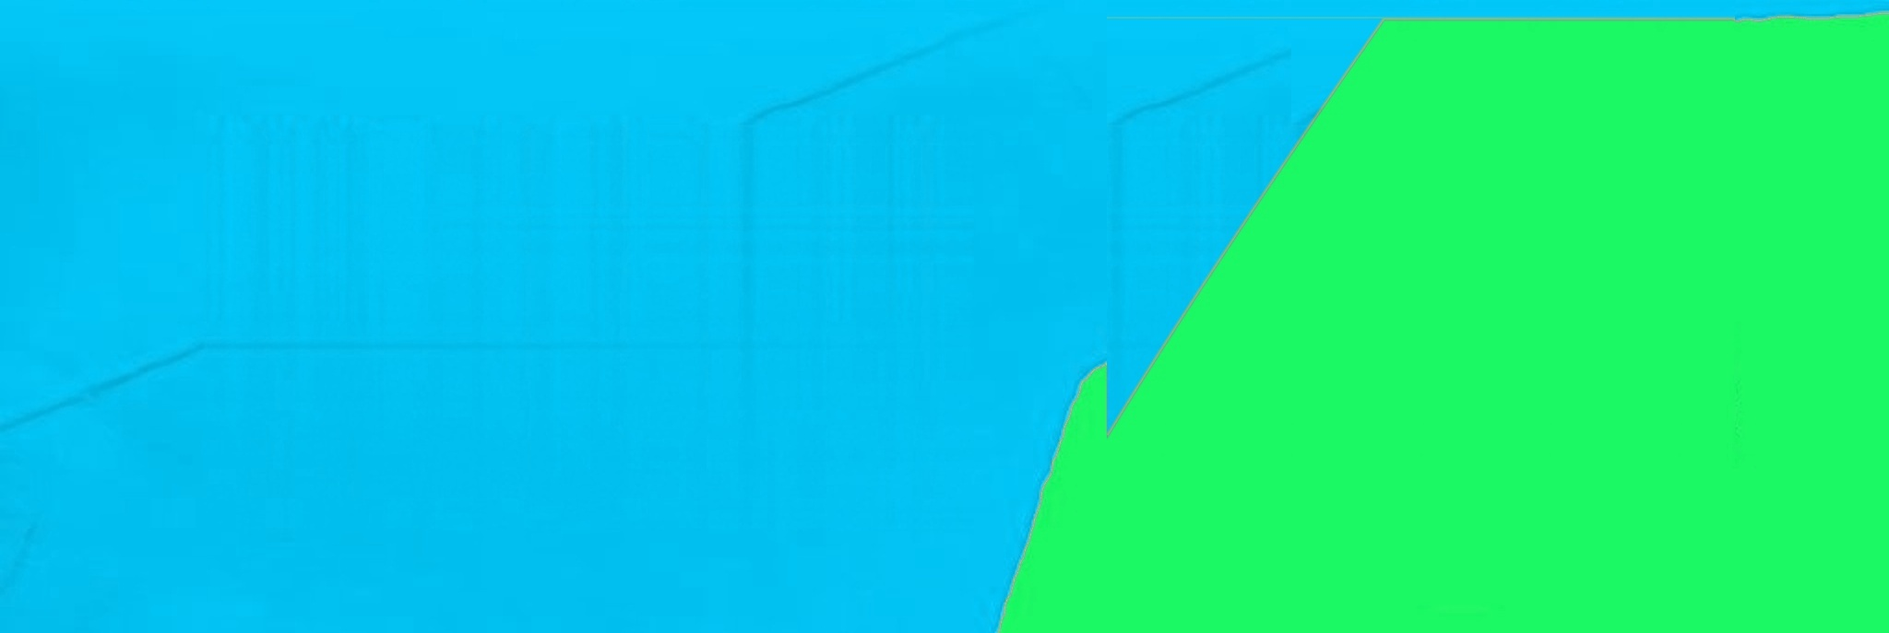
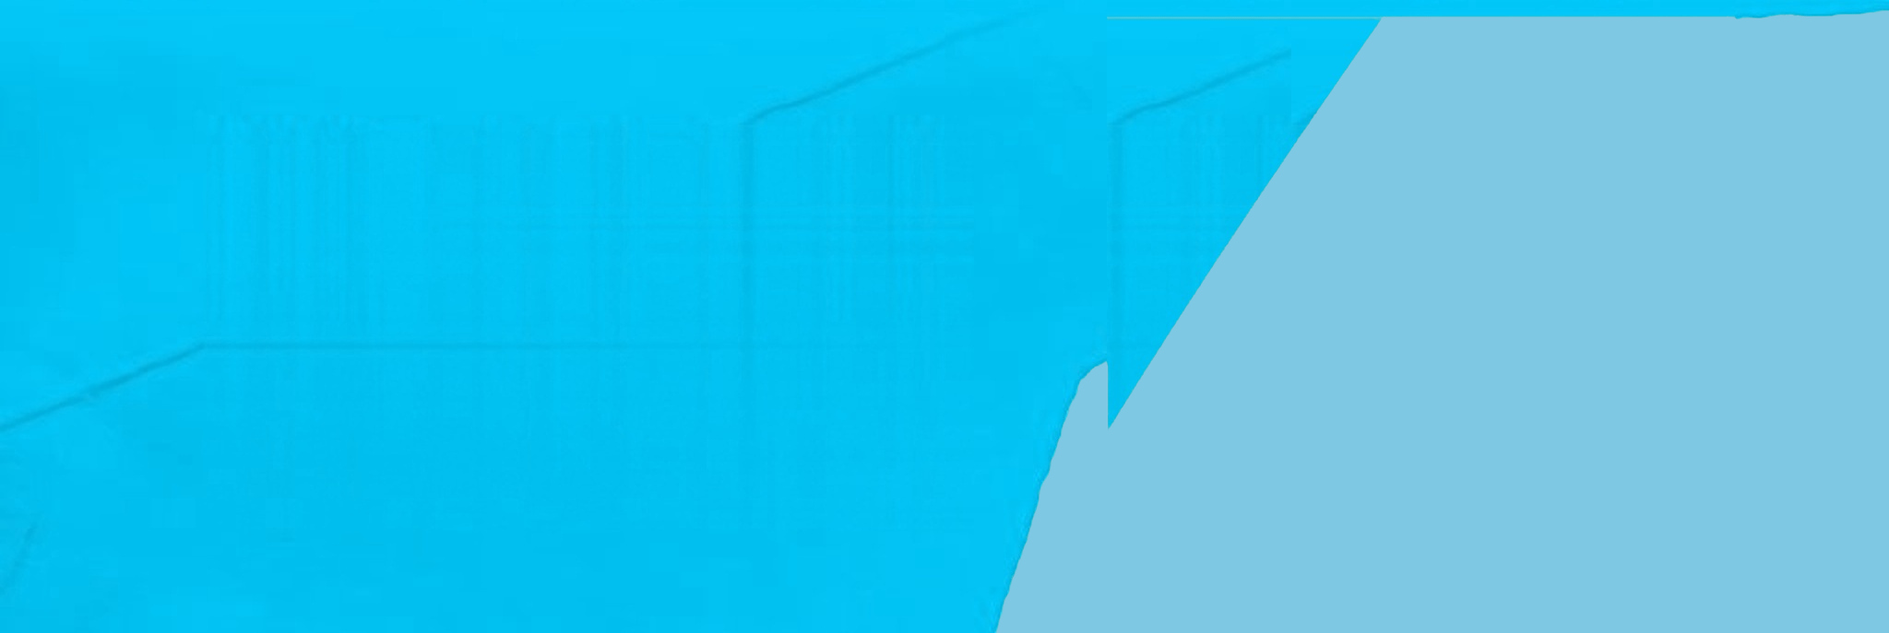
first commit

diff --git a/src/components/TornPaperCard.tsx b/src/components/TornPaperCard.tsx
@@ -1,0 +1,78 @@
+"use client";
+
+import React, { useId } from "react";
+
+interface TornPaperCardProps {
+  children: React.ReactNode;
+  className?: string;
+  borderPadding?: string;
+  variant?: 1 | 2 | 3 | 4;
+}
+
+// 4 distinct organic hand-torn paper perimeters (0..1 coordinates)
+const TORN_VARIANTS = [
+  {
+    "outer": "M 0.016,0.0228 L 0.0362,0.0215 L 0.0563,0.0196 L 0.0765,0.0192 L 0.0967,0.0192 L 0.1168,0.0208 L 0.137,0.0179 L 0.1572,0.0162 L 0.1773,0.0163 L 0.1975,0.0151 L 0.2177,0.0181 L 0.2378,0.017 L 0.258,0.0153 L 0.2782,0.0148 L 0.2983,0.0123 L 0.3185,0.0141 L 0.3387,0.0121 L 0.3588,0.0096 L 0.379,0.0095 L 0.3992,0.0116 L 0.4193,0.0153 L 0.4395,0.0189 L 0.4597,0.0178 L 0.4798,0.0196 L 0.5,0.0185 L 0.5202,0.0194 L 0.5403,0.0207 L 0.5605,0.0177 L 0.5807,0.017 L 0.6008,0.0159 L 0.621,0.0174 L 0.6412,0.0206 L 0.6613,0.0188 L 0.6815,0.0173 L 0.7017,0.0178 L 0.7218,0.0161 L 0.742,0.0165 L 0.7622,0.0138 L 0.7823,0.0113 L 0.8025,0.0105 L 0.8227,0.0092 L 0.8428,0.0121 L 0.863,0.0133 L 0.8832,0.0136 L 0.9033,0.0162 L 0.9235,0.0163 L 0.9437,0.0192 L 0.9638,0.0203 L 0.984,0.017 L 0.9838,0.0362 L 0.9823,0.0563 L 0.984,0.0765 L 0.9869,0.0967 L 0.9888,0.1168 L 0.9909,0.137 L 0.9882,0.1572 L 0.9888,0.1773 L 0.9887,0.1975 L 0.9871,0.2177 L 0.9863,0.2378 L 0.9826,0.258 L 0.9803,0.2782 L 0.9826,0.2983 L 0.983,0.3185 L 0.9841,0.3387 L 0.9832,0.3588 L 0.9804,0.379 L 0.983,0.3992 L 0.9808,0.4193 L 0.9823,0.4395 L 0.981,0.4597 L 0.9786,0.4798 L 0.9806,0.5 L 0.9833,0.5202 L 0.9858,0.5403 L 0.9883,0.5605 L 0.9873,0.5807 L 0.9889,0.6008 L 0.989,0.621 L 0.9899,0.6412 L 0.9895,0.6613 L 0.9848,0.6815 L 0.9832,0.7017 L 0.9831,0.7218 L 0.9833,0.742 L 0.9867,0.7622 L 0.9847,0.7823 L 0.9832,0.8025 L 0.9842,0.8227 L 0.9825,0.8428 L 0.983,0.863 L 0.9798,0.8832 L 0.9772,0.9033 L 0.9791,0.9235 L 0.9793,0.9437 L 0.9827,0.9638 L 0.9842,0.984 L 0.9638,0.9895 L 0.9437,0.9882 L 0.9235,0.9879 L 0.9033,0.9866 L 0.8832,0.9886 L 0.863,0.9872 L 0.8428,0.9847 L 0.8227,0.985 L 0.8025,0.9825 L 0.7823,0.9847 L 0.7622,0.9867 L 0.742,0.985 L 0.7218,0.9844 L 0.7017,0.9815 L 0.6815,0.9803 L 0.6613,0.9823 L 0.6412,0.9783 L 0.621,0.9773 L 0.6008,0.9782 L 0.5807,0.9789 L 0.5605,0.9838 L 0.5403,0.9847 L 0.5202,0.9851 L 0.5,0.9868 L 0.4798,0.9867 L 0.4597,0.9888 L 0.4395,0.9882 L 0.4193,0.986 L 0.3992,0.9853 L 0.379,0.9845 L 0.3588,0.9867 L 0.3387,0.988 L 0.3185,0.9855 L 0.2983,0.9868 L 0.2782,0.9853 L 0.258,0.9846 L 0.2378,0.9857 L 0.2177,0.9801 L 0.1975,0.9799 L 0.1773,0.9764 L 0.1572,0.9769 L 0.137,0.982 L 0.1168,0.9808 L 0.0967,0.982 L 0.0765,0.9837 L 0.0563,0.9847 L 0.0362,0.9879 L 0.016,0.9858 L 0.0154,0.9638 L 0.0168,0.9437 L 0.0161,0.9235 L 0.013,0.9033 L 0.0143,0.8832 L 0.0161,0.863 L 0.0158,0.8428 L 0.0159,0.8227 L 0.0117,0.8025 L 0.0114,0.7823 L 0.0112,0.7622 L 0.0109,0.742 L 0.0145,0.7218 L 0.0141,0.7017 L 0.0144,0.6815 L 0.0186,0.6613 L 0.0192,0.6412 L 0.0231,0.621 L 0.0199,0.6008 L 0.0185,0.5807 L 0.0188,0.5605 L 0.0185,0.5403 L 0.0188,0.5202 L 0.0178,0.5 L 0.0139,0.4798 L 0.0171,0.4597 L 0.0175,0.4395 L 0.0184,0.4193 L 0.017,0.3992 L 0.0141,0.379 L 0.0127,0.3588 L 0.0123,0.3387 L 0.0123,0.3185 L 0.011,0.2983 L 0.01,0.2782 L 0.0102,0.258 L 0.015,0.2378 L 0.0168,0.2177 L 0.0193,0.1975 L 0.0186,0.1773 L 0.0174,0.1572 L 0.0204,0.137 L 0.02,0.1168 L 0.0192,0.0967 L 0.0171,0.0765 L 0.0145,0.0563 L 0.018,0.0362 Z",
+    "inner": "M 0.012,0.0177 L 0.0323,0.0157 L 0.0527,0.0152 L 0.073,0.0146 L 0.0933,0.0135 L 0.1137,0.0149 L 0.134,0.012 L 0.1543,0.0112 L 0.1747,0.0115 L 0.195,0.0124 L 0.2153,0.014 L 0.2357,0.0129 L 0.256,0.0108 L 0.2763,0.0105 L 0.2967,0.0092 L 0.317,0.0099 L 0.3373,0.0083 L 0.3577,0.007 L 0.378,0.0068 L 0.3983,0.0077 L 0.4187,0.0109 L 0.439,0.0149 L 0.4593,0.0144 L 0.4797,0.0151 L 0.5,0.0152 L 0.5203,0.0148 L 0.5407,0.0155 L 0.561,0.0142 L 0.5813,0.0125 L 0.6017,0.0124 L 0.622,0.0137 L 0.6423,0.016 L 0.6627,0.0149 L 0.683,0.0141 L 0.7033,0.013 L 0.7237,0.0119 L 0.744,0.0119 L 0.7643,0.0106 L 0.7847,0.007 L 0.805,0.0069 L 0.8253,0.0062 L 0.8457,0.009 L 0.866,0.0108 L 0.8863,0.0098 L 0.9067,0.0111 L 0.927,0.0133 L 0.9473,0.0138 L 0.9677,0.0156 L 0.988,0.0135 L 0.9911,0.0323 L 0.9933,0.0527 L 0.9941,0.073 L 0.9935,0.0933 L 0.9899,0.1137 L 0.9884,0.134 L 0.9885,0.1543 L 0.9855,0.1747 L 0.9866,0.195 L 0.9844,0.2153 L 0.9839,0.2357 L 0.9874,0.256 L 0.9871,0.2763 L 0.9871,0.2967 L 0.9865,0.317 L 0.9836,0.3373 L 0.9865,0.3577 L 0.9863,0.378 L 0.9869,0.3983 L 0.9869,0.4187 L 0.9858,0.439 L 0.9901,0.4593 L 0.9923,0.4797 L 0.9927,0.5 L 0.993,0.5203 L 0.9903,0.5407 L 0.991,0.561 L 0.9911,0.5813 L 0.9885,0.6017 L 0.9879,0.622 L 0.9861,0.6423 L 0.9852,0.6627 L 0.9888,0.683 L 0.988,0.7033 L 0.988,0.7237 L 0.9857,0.744 L 0.9845,0.7643 L 0.9868,0.7847 L 0.9856,0.805 L 0.9845,0.8253 L 0.9831,0.8457 L 0.9831,0.866 L 0.9871,0.8863 L 0.9888,0.9067 L 0.9906,0.927 L 0.9917,0.9473 L 0.9913,0.9677 L 0.9926,0.988 L 0.9677,0.9864 L 0.9473,0.9878 L 0.927,0.9858 L 0.9067,0.9844 L 0.8863,0.9859 L 0.866,0.9879 L 0.8457,0.9923 L 0.8253,0.9912 L 0.805,0.9927 L 0.7847,0.9928 L 0.7643,0.9924 L 0.744,0.9922 L 0.7237,0.9902 L 0.7033,0.9874 L 0.683,0.9877 L 0.6627,0.9861 L 0.6423,0.9871 L 0.622,0.9884 L 0.6017,0.9857 L 0.5813,0.9867 L 0.561,0.9855 L 0.5407,0.9868 L 0.5203,0.9879 L 0.5,0.9843 L 0.4797,0.9833 L 0.4593,0.9839 L 0.439,0.9855 L 0.4187,0.9886 L 0.3983,0.9883 L 0.378,0.9891 L 0.3577,0.9906 L 0.3373,0.9921 L 0.317,0.9932 L 0.2967,0.9914 L 0.2763,0.989 L 0.256,0.9897 L 0.2357,0.9874 L 0.2153,0.9904 L 0.195,0.9893 L 0.1747,0.9877 L 0.1543,0.9879 L 0.134,0.9881 L 0.1137,0.9886 L 0.0933,0.9893 L 0.073,0.9852 L 0.0527,0.9836 L 0.0323,0.9825 L 0.012,0.9827 L 0.0179,0.9677 L 0.0168,0.9473 L 0.0155,0.927 L 0.0113,0.9067 L 0.0105,0.8863 L 0.0106,0.866 L 0.0101,0.8457 L 0.0099,0.8253 L 0.0093,0.805 L 0.0081,0.7847 L 0.0107,0.7643 L 0.012,0.744 L 0.0111,0.7237 L 0.0107,0.7033 L 0.0078,0.683 L 0.0093,0.6627 L 0.0116,0.6423 L 0.0109,0.622 L 0.0111,0.6017 L 0.0111,0.5813 L 0.0149,0.561 L 0.0182,0.5407 L 0.0176,0.5203 L 0.0162,0.5 L 0.0142,0.4797 L 0.0141,0.4593 L 0.0139,0.439 L 0.0128,0.4187 L 0.0112,0.3983 L 0.0096,0.378 L 0.0092,0.3577 L 0.0119,0.3373 L 0.0112,0.317 L 0.0106,0.2967 L 0.0103,0.2763 L 0.0075,0.256 L 0.0091,0.2357 L 0.0088,0.2153 L 0.0084,0.195 L 0.0088,0.1747 L 0.0086,0.1543 L 0.0122,0.134 L 0.0151,0.1137 L 0.0153,0.0933 L 0.0161,0.073 L 0.0145,0.0527 L 0.0162,0.0323 Z"
+  },
+  {
+    "outer": "M 0.016,0.0201 L 0.0362,0.0214 L 0.0563,0.0214 L 0.0765,0.0198 L 0.0967,0.019 L 0.1168,0.021 L 0.137,0.0183 L 0.1572,0.0171 L 0.1773,0.0168 L 0.1975,0.0141 L 0.2177,0.0174 L 0.2378,0.0193 L 0.258,0.0155 L 0.2782,0.0156 L 0.2983,0.0127 L 0.3185,0.0124 L 0.3387,0.0131 L 0.3588,0.0107 L 0.379,0.0092 L 0.3992,0.0104 L 0.4193,0.0125 L 0.4395,0.0157 L 0.4597,0.0179 L 0.4798,0.0181 L 0.5,0.0183 L 0.5202,0.018 L 0.5403,0.0212 L 0.5605,0.0186 L 0.5807,0.0162 L 0.6008,0.0172 L 0.621,0.0164 L 0.6412,0.0184 L 0.6613,0.0207 L 0.6815,0.0186 L 0.7017,0.0187 L 0.7218,0.0174 L 0.742,0.0165 L 0.7622,0.0156 L 0.7823,0.0116 L 0.8025,0.0102 L 0.8227,0.0098 L 0.8428,0.0101 L 0.863,0.0132 L 0.8832,0.0138 L 0.9033,0.0136 L 0.9235,0.0154 L 0.9437,0.0176 L 0.9638,0.0191 L 0.984,0.018 L 0.9858,0.0362 L 0.9842,0.0563 L 0.9851,0.0765 L 0.9833,0.0967 L 0.9812,0.1168 L 0.9828,0.137 L 0.9839,0.1572 L 0.9849,0.1773 L 0.9832,0.1975 L 0.9789,0.2177 L 0.9789,0.2378 L 0.9796,0.258 L 0.9793,0.2782 L 0.9818,0.2983 L 0.9785,0.3185 L 0.9814,0.3387 L 0.986,0.3588 L 0.9871,0.379 L 0.9907,0.3992 L 0.9885,0.4193 L 0.9877,0.4395 L 0.987,0.4597 L 0.9861,0.4798 L 0.9871,0.5 L 0.984,0.5202 L 0.9834,0.5403 L 0.9853,0.5605 L 0.9861,0.5807 L 0.9864,0.6008 L 0.9846,0.621 L 0.981,0.6412 L 0.9819,0.6613 L 0.9814,0.6815 L 0.9797,0.7017 L 0.9786,0.7218 L 0.9756,0.742 L 0.9792,0.7622 L 0.9813,0.7823 L 0.9838,0.8025 L 0.9874,0.8227 L 0.9851,0.8428 L 0.9863,0.863 L 0.9881,0.8832 L 0.9874,0.9033 L 0.9877,0.9235 L 0.9852,0.9437 L 0.9833,0.9638 L 0.9857,0.984 L 0.9638,0.9908 L 0.9437,0.9886 L 0.9235,0.9862 L 0.9033,0.9827 L 0.8832,0.9806 L 0.863,0.9823 L 0.8428,0.9806 L 0.8227,0.9798 L 0.8025,0.9796 L 0.7823,0.9806 L 0.7622,0.9837 L 0.742,0.9834 L 0.7218,0.9823 L 0.7017,0.9807 L 0.6815,0.9804 L 0.6613,0.9824 L 0.6412,0.9839 L 0.621,0.9832 L 0.6008,0.9848 L 0.5807,0.9857 L 0.5605,0.9899 L 0.5403,0.9903 L 0.5202,0.9898 L 0.5,0.9889 L 0.4798,0.9854 L 0.4597,0.9852 L 0.4395,0.9862 L 0.4193,0.9836 L 0.3992,0.9815 L 0.379,0.9796 L 0.3588,0.9814 L 0.3387,0.9842 L 0.3185,0.9832 L 0.2983,0.9827 L 0.2782,0.9803 L 0.258,0.98 L 0.2378,0.9821 L 0.2177,0.9806 L 0.1975,0.9798 L 0.1773,0.9802 L 0.1572,0.9822 L 0.137,0.9872 L 0.1168,0.9892 L 0.0967,0.9886 L 0.0765,0.988 L 0.0563,0.9878 L 0.0362,0.988 L 0.016,0.9885 L 0.0229,0.9638 L 0.02,0.9437 L 0.0181,0.9235 L 0.0145,0.9033 L 0.0141,0.8832 L 0.0151,0.863 L 0.0115,0.8428 L 0.0133,0.8227 L 0.0123,0.8025 L 0.014,0.7823 L 0.0164,0.7622 L 0.0143,0.742 L 0.0138,0.7218 L 0.013,0.7017 L 0.0124,0.6815 L 0.0147,0.6613 L 0.0148,0.6412 L 0.0154,0.621 L 0.0173,0.6008 L 0.0166,0.5807 L 0.0213,0.5605 L 0.0224,0.5403 L 0.0211,0.5202 L 0.0196,0.5 L 0.0172,0.4798 L 0.0183,0.4597 L 0.0178,0.4395 L 0.0152,0.4193 L 0.0132,0.3992 L 0.0122,0.379 L 0.0131,0.3588 L 0.0173,0.3387 L 0.0151,0.3185 L 0.0151,0.2983 L 0.0119,0.2782 L 0.0125,0.258 L 0.013,0.2378 L 0.0127,0.2177 L 0.0115,0.1975 L 0.0121,0.1773 L 0.0127,0.1572 L 0.0198,0.137 L 0.0198,0.1168 L 0.0199,0.0967 L 0.0208,0.0765 L 0.0193,0.0563 L 0.0208,0.0362 Z",
+    "inner": "M 0.012,0.0157 L 0.0323,0.0157 L 0.0527,0.0152 L 0.073,0.0152 L 0.0933,0.0149 L 0.1137,0.0154 L 0.134,0.0141 L 0.1543,0.0118 L 0.1747,0.0119 L 0.195,0.0114 L 0.2153,0.0135 L 0.2357,0.0133 L 0.256,0.0127 L 0.2763,0.0113 L 0.2967,0.0094 L 0.317,0.0101 L 0.3373,0.0092 L 0.3577,0.0077 L 0.378,0.0064 L 0.3983,0.0065 L 0.4187,0.0084 L 0.439,0.0123 L 0.4593,0.0127 L 0.4797,0.0139 L 0.5,0.0151 L 0.5203,0.0153 L 0.5407,0.0163 L 0.561,0.015 L 0.5813,0.0135 L 0.6017,0.0118 L 0.622,0.0126 L 0.6423,0.0144 L 0.6627,0.015 L 0.683,0.0135 L 0.7033,0.0139 L 0.7237,0.013 L 0.744,0.0121 L 0.7643,0.0122 L 0.7847,0.0088 L 0.805,0.0064 L 0.8253,0.0065 L 0.8457,0.0071 L 0.866,0.0109 L 0.8863,0.0098 L 0.9067,0.0106 L 0.927,0.0125 L 0.9473,0.0124 L 0.9677,0.0149 L 0.988,0.0143 L 0.9865,0.0323 L 0.9869,0.0527 L 0.9858,0.073 L 0.9878,0.0933 L 0.9878,0.1137 L 0.9866,0.134 L 0.984,0.1543 L 0.9826,0.1747 L 0.9839,0.195 L 0.9869,0.2153 L 0.9879,0.2357 L 0.9893,0.256 L 0.9879,0.2763 L 0.9908,0.2967 L 0.9943,0.317 L 0.9936,0.3373 L 0.9917,0.3577 L 0.9897,0.378 L 0.989,0.3983 L 0.9895,0.4187 L 0.9885,0.439 L 0.9884,0.4593 L 0.9864,0.4797 L 0.9864,0.5 L 0.9897,0.5203 L 0.9882,0.5407 L 0.9875,0.561 L 0.9852,0.5813 L 0.9827,0.6017 L 0.9836,0.622 L 0.9849,0.6423 L 0.9846,0.6627 L 0.9843,0.683 L 0.9843,0.7033 L 0.9887,0.7237 L 0.9905,0.744 L 0.9922,0.7643 L 0.9915,0.7847 L 0.989,0.805 L 0.9905,0.8253 L 0.9913,0.8457 L 0.9901,0.866 L 0.9894,0.8863 L 0.9881,0.9067 L 0.9884,0.927 L 0.9905,0.9473 L 0.9902,0.9677 L 0.9893,0.988 L 0.9677,0.9873 L 0.9473,0.9873 L 0.927,0.9854 L 0.9067,0.9865 L 0.8863,0.9888 L 0.866,0.9876 L 0.8457,0.9873 L 0.8253,0.9833 L 0.805,0.9835 L 0.7847,0.985 L 0.7643,0.9856 L 0.744,0.9862 L 0.7237,0.9879 L 0.7033,0.9878 L 0.683,0.9923 L 0.6627,0.9929 L 0.6423,0.9925 L 0.622,0.9926 L 0.6017,0.9897 L 0.5813,0.99 L 0.561,0.9893 L 0.5407,0.9882 L 0.5203,0.988 L 0.5,0.9866 L 0.4797,0.9876 L 0.4593,0.99 L 0.439,0.9883 L 0.4187,0.9891 L 0.3983,0.9842 L 0.378,0.9841 L 0.3577,0.9839 L 0.3373,0.9836 L 0.317,0.9841 L 0.2967,0.9843 L 0.2763,0.985 L 0.256,0.9883 L 0.2357,0.9896 L 0.2153,0.9917 L 0.195,0.9902 L 0.1747,0.99 L 0.1543,0.9904 L 0.134,0.9905 L 0.1137,0.99 L 0.0933,0.9895 L 0.073,0.9879 L 0.0527,0.9895 L 0.0323,0.9919 L 0.012,0.9911 L 0.011,0.9677 L 0.009,0.9473 L 0.0113,0.927 L 0.0118,0.9067 L 0.0094,0.8863 L 0.0089,0.866 L 0.0065,0.8457 L 0.0077,0.8253 L 0.0106,0.805 L 0.0121,0.7847 L 0.0135,0.7643 L 0.0143,0.744 L 0.016,0.7237 L 0.018,0.7033 L 0.0172,0.683 L 0.0148,0.6627 L 0.013,0.6423 L 0.0108,0.622 L 0.0135,0.6017 L 0.0126,0.5813 L 0.0117,0.561 L 0.011,0.5407 L 0.0097,0.5203 L 0.0119,0.5 L 0.0128,0.4797 L 0.0113,0.4593 L 0.0092,0.439 L 0.0058,0.4187 L 0.0076,0.3983 L 0.0084,0.378 L 0.0079,0.3577 L 0.0105,0.3373 L 0.0105,0.317 L 0.0134,0.2967 L 0.0174,0.2763 L 0.0165,0.256 L 0.0159,0.2357 L 0.0139,0.2153 L 0.0129,0.195 L 0.0147,0.1747 L 0.0134,0.1543 L 0.0133,0.134 L 0.0129,0.1137 L 0.0113,0.0933 L 0.0147,0.073 L 0.0148,0.0527 L 0.0132,0.0323 Z"
+  },
+  {
+    "outer": "M 0.016,0.0233 L 0.0362,0.0204 L 0.0563,0.0211 L 0.0765,0.0193 L 0.0967,0.0195 L 0.1168,0.0194 L 0.137,0.0161 L 0.1572,0.016 L 0.1773,0.0149 L 0.1975,0.0155 L 0.2177,0.0177 L 0.2378,0.0176 L 0.258,0.0157 L 0.2782,0.0137 L 0.2983,0.0117 L 0.3185,0.013 L 0.3387,0.0111 L 0.3588,0.0095 L 0.379,0.011 L 0.3992,0.0118 L 0.4193,0.0153 L 0.4395,0.0182 L 0.4597,0.0174 L 0.4798,0.0194 L 0.5,0.0197 L 0.5202,0.0197 L 0.5403,0.021 L 0.5605,0.0184 L 0.5807,0.0175 L 0.6008,0.0166 L 0.621,0.0183 L 0.6412,0.0204 L 0.6613,0.0193 L 0.6815,0.0172 L 0.7017,0.0175 L 0.7218,0.016 L 0.742,0.0168 L 0.7622,0.0126 L 0.7823,0.0104 L 0.8025,0.0103 L 0.8227,0.01 L 0.8428,0.012 L 0.863,0.0153 L 0.8832,0.0133 L 0.9033,0.0153 L 0.9235,0.0175 L 0.9437,0.0202 L 0.9638,0.0206 L 0.984,0.017 L 0.9896,0.0362 L 0.9859,0.0563 L 0.9841,0.0765 L 0.9806,0.0967 L 0.9811,0.1168 L 0.9811,0.137 L 0.9808,0.1572 L 0.9812,0.1773 L 0.9806,0.1975 L 0.9824,0.2177 L 0.9844,0.2378 L 0.9838,0.258 L 0.9831,0.2782 L 0.9804,0.2983 L 0.9807,0.3185 L 0.9842,0.3387 L 0.9827,0.3588 L 0.9835,0.379 L 0.9854,0.3992 L 0.9871,0.4193 L 0.9905,0.4395 L 0.9906,0.4597 L 0.9901,0.4798 L 0.9871,0.5 L 0.9844,0.5202 L 0.985,0.5403 L 0.985,0.5605 L 0.9813,0.5807 L 0.9817,0.6008 L 0.9812,0.621 L 0.9837,0.6412 L 0.9838,0.6613 L 0.9822,0.6815 L 0.9816,0.7017 L 0.9799,0.7218 L 0.98,0.742 L 0.9818,0.7622 L 0.9808,0.7823 L 0.9802,0.8025 L 0.9807,0.8227 L 0.9831,0.8428 L 0.9887,0.863 L 0.9891,0.8832 L 0.9887,0.9033 L 0.9883,0.9235 L 0.9873,0.9437 L 0.988,0.9638 L 0.9878,0.984 L 0.9638,0.9836 L 0.9437,0.9837 L 0.9235,0.9812 L 0.9033,0.9818 L 0.8832,0.9831 L 0.863,0.9827 L 0.8428,0.9821 L 0.8227,0.979 L 0.8025,0.977 L 0.7823,0.9807 L 0.7622,0.9807 L 0.742,0.9826 L 0.7218,0.9828 L 0.7017,0.9834 L 0.6815,0.9891 L 0.6613,0.9902 L 0.6412,0.9891 L 0.621,0.9883 L 0.6008,0.9852 L 0.5807,0.987 L 0.5605,0.9852 L 0.5403,0.9852 L 0.5202,0.985 L 0.5,0.9824 L 0.4798,0.9836 L 0.4597,0.9863 L 0.4395,0.9851 L 0.4193,0.9847 L 0.3992,0.9802 L 0.379,0.98 L 0.3588,0.98 L 0.3387,0.9793 L 0.3185,0.9793 L 0.2983,0.9799 L 0.2782,0.981 L 0.258,0.9857 L 0.2378,0.9876 L 0.2177,0.9891 L 0.1975,0.9881 L 0.1773,0.985 L 0.1572,0.9867 L 0.137,0.9878 L 0.1168,0.9872 L 0.0967,0.9852 L 0.0765,0.9841 L 0.0563,0.9869 L 0.0362,0.9885 L 0.016,0.9871 L 0.0146,0.9638 L 0.0141,0.9437 L 0.0122,0.9235 L 0.016,0.9033 L 0.0171,0.8832 L 0.0211,0.863 L 0.0225,0.8428 L 0.0198,0.8227 L 0.0205,0.8025 L 0.0186,0.7823 L 0.0191,0.7622 L 0.0184,0.742 L 0.013,0.7218 L 0.0132,0.7017 L 0.0141,0.6815 L 0.0149,0.6613 L 0.016,0.6412 L 0.0142,0.621 L 0.0139,0.6008 L 0.014,0.5807 L 0.0135,0.5605 L 0.0142,0.5403 L 0.0113,0.5202 L 0.0113,0.5 L 0.0122,0.4798 L 0.0137,0.4597 L 0.019,0.4395 L 0.0191,0.4193 L 0.0184,0.3992 L 0.0207,0.379 L 0.0212,0.3588 L 0.023,0.3387 L 0.021,0.3185 L 0.0166,0.2983 L 0.0162,0.2782 L 0.015,0.258 L 0.0173,0.2378 L 0.0186,0.2177 L 0.015,0.1975 L 0.0164,0.1773 L 0.0154,0.1572 L 0.0158,0.137 L 0.0155,0.1168 L 0.012,0.0967 L 0.0106,0.0765 L 0.0108,0.0563 L 0.0114,0.0362 Z",
+    "inner": "M 0.012,0.018 L 0.0323,0.0164 L 0.0527,0.0164 L 0.073,0.0147 L 0.0933,0.0137 L 0.1137,0.0154 L 0.134,0.0123 L 0.1543,0.0111 L 0.1747,0.0104 L 0.195,0.0111 L 0.2153,0.0153 L 0.2357,0.0116 L 0.256,0.0112 L 0.2763,0.0095 L 0.2967,0.0087 L 0.317,0.0089 L 0.3373,0.0074 L 0.3577,0.0071 L 0.378,0.0082 L 0.3983,0.0081 L 0.4187,0.0126 L 0.439,0.0142 L 0.4593,0.014 L 0.4797,0.0148 L 0.5,0.0145 L 0.5203,0.015 L 0.5407,0.0157 L 0.561,0.0131 L 0.5813,0.013 L 0.6017,0.0114 L 0.622,0.0128 L 0.6423,0.0157 L 0.6627,0.0136 L 0.683,0.014 L 0.7033,0.0127 L 0.7237,0.0118 L 0.744,0.0121 L 0.7643,0.0095 L 0.7847,0.0064 L 0.805,0.0068 L 0.8253,0.0071 L 0.8457,0.0107 L 0.866,0.0107 L 0.8863,0.0114 L 0.9067,0.012 L 0.927,0.0127 L 0.9473,0.0145 L 0.9677,0.0157 L 0.988,0.0118 L 0.9841,0.0323 L 0.9827,0.0527 L 0.9849,0.073 L 0.9864,0.0933 L 0.9857,0.1137 L 0.9863,0.134 L 0.9862,0.1543 L 0.9883,0.1747 L 0.9893,0.195 L 0.9863,0.2153 L 0.9851,0.2357 L 0.9872,0.256 L 0.9882,0.2763 L 0.9913,0.2967 L 0.9907,0.317 L 0.9911,0.3373 L 0.9925,0.3577 L 0.993,0.378 L 0.994,0.3983 L 0.9913,0.4187 L 0.987,0.439 L 0.9869,0.4593 L 0.9857,0.4797 L 0.9871,0.5 L 0.9867,0.5203 L 0.985,0.5407 L 0.9858,0.561 L 0.9867,0.5813 L 0.9866,0.6017 L 0.9889,0.622 L 0.9858,0.6423 L 0.9844,0.6627 L 0.9845,0.683 L 0.985,0.7033 L 0.9884,0.7237 L 0.9871,0.744 L 0.9886,0.7643 L 0.9909,0.7847 L 0.9919,0.805 L 0.9942,0.8253 L 0.9929,0.8457 L 0.9897,0.866 L 0.9896,0.8863 L 0.9884,0.9067 L 0.9887,0.927 L 0.9881,0.9473 L 0.9848,0.9677 L 0.9868,0.988 L 0.9677,0.9946 L 0.9473,0.9928 L 0.927,0.9918 L 0.9067,0.9892 L 0.8863,0.9873 L 0.866,0.9879 L 0.8457,0.9869 L 0.8253,0.9857 L 0.805,0.9854 L 0.7847,0.9843 L 0.7643,0.9868 L 0.744,0.9883 L 0.7237,0.9871 L 0.7033,0.9862 L 0.683,0.9846 L 0.6627,0.9855 L 0.6423,0.986 L 0.622,0.9866 L 0.6017,0.9879 L 0.5813,0.9877 L 0.561,0.9895 L 0.5407,0.9932 L 0.5203,0.9928 L 0.5,0.9935 L 0.4797,0.9926 L 0.4593,0.9893 L 0.439,0.9902 L 0.4187,0.9899 L 0.3983,0.9878 L 0.378,0.9865 L 0.3577,0.9842 L 0.3373,0.9879 L 0.317,0.9876 L 0.2967,0.9872 L 0.2763,0.9865 L 0.256,0.9843 L 0.2357,0.9851 L 0.2153,0.9864 L 0.195,0.9843 L 0.1747,0.9847 L 0.1543,0.9829 L 0.134,0.9858 L 0.1137,0.9899 L 0.0933,0.9907 L 0.073,0.9922 L 0.0527,0.9911 L 0.0323,0.9916 L 0.012,0.993 L 0.0143,0.9677 L 0.0142,0.9473 L 0.0126,0.927 L 0.0141,0.9067 L 0.0127,0.8863 L 0.0111,0.866 L 0.0122,0.8457 L 0.0117,0.8253 L 0.0139,0.805 L 0.0129,0.7847 L 0.0107,0.7643 L 0.0089,0.744 L 0.0086,0.7237 L 0.008,0.7033 L 0.0089,0.683 L 0.0059,0.6627 L 0.0075,0.6423 L 0.0098,0.622 L 0.0128,0.6017 L 0.0168,0.5813 L 0.0149,0.561 L 0.0146,0.5407 L 0.0149,0.5203 L 0.0141,0.5 L 0.016,0.4797 L 0.0131,0.4593 L 0.0124,0.439 L 0.012,0.4187 L 0.0139,0.3983 L 0.0149,0.378 L 0.0147,0.3577 L 0.0128,0.3373 L 0.0113,0.317 L 0.0107,0.2967 L 0.0103,0.2763 L 0.0081,0.256 L 0.0049,0.2357 L 0.0066,0.2153 L 0.0074,0.195 L 0.0106,0.1747 L 0.0125,0.1543 L 0.0108,0.134 L 0.0121,0.1137 L 0.0144,0.0933 L 0.0152,0.073 L 0.0163,0.0527 L 0.0134,0.0323 Z"
+  },
+  {
+    "outer": "M 0.016,0.0206 L 0.0362,0.0214 L 0.0563,0.0205 L 0.0765,0.02 L 0.0967,0.0189 L 0.1168,0.0197 L 0.137,0.0182 L 0.1572,0.0159 L 0.1773,0.0159 L 0.1975,0.0151 L 0.2177,0.0187 L 0.2378,0.0174 L 0.258,0.015 L 0.2782,0.0148 L 0.2983,0.0134 L 0.3185,0.0138 L 0.3387,0.0136 L 0.3588,0.0091 L 0.379,0.0104 L 0.3992,0.0109 L 0.4193,0.0134 L 0.4395,0.0171 L 0.4597,0.0178 L 0.4798,0.0184 L 0.5,0.0179 L 0.5202,0.0194 L 0.5403,0.0215 L 0.5605,0.0187 L 0.5807,0.0169 L 0.6008,0.0175 L 0.621,0.0161 L 0.6412,0.0201 L 0.6613,0.0201 L 0.6815,0.0186 L 0.7017,0.0186 L 0.7218,0.0165 L 0.742,0.0174 L 0.7622,0.0164 L 0.7823,0.0106 L 0.8025,0.0093 L 0.8227,0.0096 L 0.8428,0.0111 L 0.863,0.0141 L 0.8832,0.0129 L 0.9033,0.0145 L 0.9235,0.0163 L 0.9437,0.0175 L 0.9638,0.0198 L 0.984,0.0185 L 0.9829,0.0362 L 0.9832,0.0563 L 0.98,0.0765 L 0.9823,0.0967 L 0.9828,0.1168 L 0.9867,0.137 L 0.9894,0.1572 L 0.9888,0.1773 L 0.9898,0.1975 L 0.9886,0.2177 L 0.989,0.2378 L 0.9883,0.258 L 0.9853,0.2782 L 0.9824,0.2983 L 0.982,0.3185 L 0.9817,0.3387 L 0.9852,0.3588 L 0.9843,0.379 L 0.982,0.3992 L 0.9822,0.4193 L 0.9811,0.4395 L 0.9823,0.4597 L 0.9808,0.4798 L 0.979,0.5 L 0.9789,0.5202 L 0.9786,0.5403 L 0.9833,0.5605 L 0.9847,0.5807 L 0.9857,0.6008 L 0.9869,0.621 L 0.9876,0.6412 L 0.9896,0.6613 L 0.9906,0.6815 L 0.9867,0.7017 L 0.9843,0.7218 L 0.984,0.742 L 0.9848,0.7622 L 0.9859,0.7823 L 0.9845,0.8025 L 0.9842,0.8227 L 0.9839,0.8428 L 0.9838,0.863 L 0.9859,0.8832 L 0.9828,0.9033 L 0.9789,0.9235 L 0.9785,0.9437 L 0.9787,0.9638 L 0.9802,0.984 L 0.9638,0.9842 L 0.9437,0.9821 L 0.9235,0.98 L 0.9033,0.98 L 0.8832,0.9816 L 0.863,0.9794 L 0.8428,0.9811 L 0.8227,0.9813 L 0.8025,0.9813 L 0.7823,0.9846 L 0.7622,0.9833 L 0.742,0.9821 L 0.7218,0.9807 L 0.7017,0.9812 L 0.6815,0.9845 L 0.6613,0.985 L 0.6412,0.9857 L 0.621,0.988 L 0.6008,0.9885 L 0.5807,0.9915 L 0.5605,0.9916 L 0.5403,0.9885 L 0.5202,0.9867 L 0.5,0.9827 L 0.4798,0.9845 L 0.4597,0.9837 L 0.4395,0.9801 L 0.4193,0.9805 L 0.3992,0.9799 L 0.379,0.9816 L 0.3588,0.9841 L 0.3387,0.9821 L 0.3185,0.9812 L 0.2983,0.98 L 0.2782,0.9806 L 0.258,0.9831 L 0.2378,0.981 L 0.2177,0.9813 L 0.1975,0.9832 L 0.1773,0.9853 L 0.1572,0.9907 L 0.137,0.9901 L 0.1168,0.9892 L 0.0967,0.9892 L 0.0765,0.9864 L 0.0563,0.9881 L 0.0362,0.986 L 0.016,0.9834 L 0.0137,0.9638 L 0.0131,0.9437 L 0.0101,0.9235 L 0.012,0.9033 L 0.0125,0.8832 L 0.013,0.863 L 0.0136,0.8428 L 0.0142,0.8227 L 0.015,0.8025 L 0.0161,0.7823 L 0.0136,0.7622 L 0.0128,0.742 L 0.0123,0.7218 L 0.0154,0.7017 L 0.0184,0.6815 L 0.0172,0.6613 L 0.019,0.6412 L 0.0197,0.621 L 0.0221,0.6008 L 0.0247,0.5807 L 0.0203,0.5605 L 0.0184,0.5403 L 0.0169,0.5202 L 0.0148,0.5 L 0.0148,0.4798 L 0.0149,0.4597 L 0.0129,0.4395 L 0.014,0.4193 L 0.0139,0.3992 L 0.0162,0.379 L 0.0164,0.3588 L 0.0131,0.3387 L 0.0118,0.3185 L 0.0124,0.2983 L 0.0137,0.2782 L 0.0143,0.258 L 0.0132,0.2378 L 0.0151,0.2177 L 0.0171,0.1975 L 0.0205,0.1773 L 0.0224,0.1572 L 0.0212,0.137 L 0.0205,0.1168 L 0.0202,0.0967 L 0.0171,0.0765 L 0.0198,0.0563 L 0.0155,0.0362 Z",
+    "inner": "M 0.012,0.0177 L 0.0323,0.0157 L 0.0527,0.016 L 0.073,0.0153 L 0.0933,0.0149 L 0.1137,0.0158 L 0.134,0.0141 L 0.1543,0.0108 L 0.1747,0.0111 L 0.195,0.0106 L 0.2153,0.0146 L 0.2357,0.0133 L 0.256,0.0122 L 0.2763,0.0105 L 0.2967,0.0083 L 0.317,0.0096 L 0.3373,0.0096 L 0.3577,0.0065 L 0.378,0.0076 L 0.3983,0.007 L 0.4187,0.0109 L 0.439,0.0135 L 0.4593,0.0127 L 0.4797,0.014 L 0.5,0.0147 L 0.5203,0.0148 L 0.5407,0.0163 L 0.561,0.0133 L 0.5813,0.0124 L 0.6017,0.0121 L 0.622,0.0125 L 0.6423,0.0157 L 0.6627,0.0143 L 0.683,0.0135 L 0.7033,0.0138 L 0.7237,0.0122 L 0.744,0.0128 L 0.7643,0.0111 L 0.7847,0.008 L 0.805,0.0075 L 0.8253,0.0065 L 0.8457,0.0081 L 0.866,0.0098 L 0.8863,0.0091 L 0.9067,0.0114 L 0.927,0.0115 L 0.9473,0.0141 L 0.9677,0.0153 L 0.988,0.013 L 0.9865,0.0323 L 0.9902,0.0527 L 0.9926,0.073 L 0.9926,0.0933 L 0.9937,0.1137 L 0.9913,0.134 L 0.9905,0.1543 L 0.9905,0.1747 L 0.9887,0.195 L 0.9872,0.2153 L 0.9856,0.2357 L 0.9834,0.256 L 0.9864,0.2763 L 0.9872,0.2967 L 0.9876,0.317 L 0.9866,0.3373 L 0.984,0.3577 L 0.9857,0.378 L 0.9855,0.3983 L 0.9862,0.4187 L 0.9861,0.439 L 0.9834,0.4593 L 0.9872,0.4797 L 0.9894,0.5 L 0.992,0.5203 L 0.9937,0.5407 L 0.9918,0.561 L 0.9923,0.5813 L 0.9923,0.6017 L 0.9911,0.622 L 0.99,0.6423 L 0.9879,0.6627 L 0.9864,0.683 L 0.9878,0.7033 L 0.9877,0.7237 L 0.9886,0.744 L 0.9866,0.7643 L 0.985,0.7847 L 0.9871,0.805 L 0.9865,0.8253 L 0.9852,0.8457 L 0.9842,0.866 L 0.9813,0.8863 L 0.9841,0.9067 L 0.9855,0.927 L 0.988,0.9473 L 0.9889,0.9677 L 0.9886,0.988 L 0.9677,0.9872 L 0.9473,0.9861 L 0.927,0.9861 L 0.9067,0.9874 L 0.8863,0.9854 L 0.866,0.9853 L 0.8457,0.9824 L 0.8253,0.9839 L 0.805,0.9871 L 0.7847,0.9875 L 0.7643,0.9886 L 0.744,0.9895 L 0.7237,0.9907 L 0.7033,0.9941 L 0.683,0.9933 L 0.6627,0.9923 L 0.6423,0.9908 L 0.622,0.9871 L 0.6017,0.9882 L 0.5813,0.989 L 0.561,0.9877 L 0.5407,0.9886 L 0.5203,0.9861 L 0.5,0.9875 L 0.4797,0.9895 L 0.4593,0.9878 L 0.439,0.9859 L 0.4187,0.9825 L 0.3983,0.9838 L 0.378,0.9851 L 0.3577,0.9849 L 0.3373,0.9856 L 0.317,0.9858 L 0.2967,0.9883 L 0.2763,0.9917 L 0.256,0.9922 L 0.2357,0.9927 L 0.2153,0.9906 L 0.195,0.9883 L 0.1747,0.99 L 0.1543,0.9894 L 0.134,0.9882 L 0.1137,0.9886 L 0.0933,0.9869 L 0.073,0.9898 L 0.0527,0.9909 L 0.0323,0.9887 L 0.012,0.9886 L 0.0087,0.9677 L 0.0109,0.9473 L 0.0099,0.927 L 0.009,0.9067 L 0.009,0.8863 L 0.0094,0.866 L 0.0135,0.8457 L 0.0149,0.8253 L 0.015,0.805 L 0.0165,0.7847 L 0.0151,0.7643 L 0.0171,0.744 L 0.0179,0.7237 L 0.0141,0.7033 L 0.0121,0.683 L 0.0098,0.6627 L 0.0108,0.6423 L 0.0121,0.622 L 0.0121,0.6017 L 0.0107,0.5813 L 0.0105,0.561 L 0.0106,0.5407 L 0.0123,0.5203 L 0.0107,0.5 L 0.0071,0.4797 L 0.0079,0.4593 L 0.0071,0.439 L 0.0096,0.4187 L 0.0111,0.3983 L 0.0113,0.378 L 0.0138,0.3577 L 0.0142,0.3373 L 0.0165,0.317 L 0.0186,0.2967 L 0.0154,0.2763 L 0.0135,0.256 L 0.0131,0.2357 L 0.0123,0.2153 L 0.0147,0.195 L 0.013,0.1747 L 0.0121,0.1543 L 0.0116,0.134 L 0.0121,0.1137 L 0.0149,0.0933 L 0.0107,0.073 L 0.0083,0.0527 L 0.0075,0.0323 Z"
+  }
+];
+
+export default function TornPaperCard({
+  children,
+  className = "",
+  borderPadding = "p-2 sm:p-2.5 md:p-3",
+  variant = 1,
+}: TornPaperCardProps) {
+  const rawId = useId();
+  const safeId = rawId.replace(/[^a-zA-Z0-9]/g, "_");
+  const outerClipId = `torn-card-outer-${safeId}`;
+  const innerClipId = `torn-card-inner-${safeId}`;
+  const paths = TORN_VARIANTS[Math.max(0, Math.min(3, variant - 1))];
+
+  return (
+    <div
+      className={`relative filter drop-shadow-[0_20px_40px_rgba(0,0,0,0.40)] select-none transition-transform duration-500 hover:scale-[1.01] ${className}`}
+    >
+      {/* Hidden SVG defs for CSS clip-path */}
+      <svg className="absolute w-0 h-0 pointer-events-none" aria-hidden="true">
+        <defs>
+          <clipPath id={outerClipId} clipPathUnits="objectBoundingBox">
+            <path d={paths.outer} />
+          </clipPath>
+          <clipPath id={innerClipId} clipPathUnits="objectBoundingBox">
+            <path d={paths.inner} />
+          </clipPath>
+        </defs>
+      </svg>
+
+      {/* Outer White Paper Matte Layer with Torn Paper Cut Silhouette */}
+      <div
+        className={`relative w-full h-full bg-white ${borderPadding}`}
+        style={{ clipPath: `url(#${outerClipId})` }}
+      >
+        {/* Subtle deckle paper texture / ambient warmth */}
+        <div className="absolute inset-0 bg-[#faf9f6] opacity-60 pointer-events-none" />
+
+        {/* Inner Content / Image Layer with Matching Organic Torn Edge */}
+        <div
+          className="relative w-full h-full overflow-hidden bg-neutral-900 shadow-inner"
+          style={{ clipPath: `url(#${innerClipId})` }}
+        >
+          {children}
+        </div>
+      </div>
+    </div>
+  );
+}

diff --git a/src/components/ChargeZoneHome.tsx b/src/components/ChargeZoneHome.tsx
@@ -21,6 +21,7 @@ import {
 } from "lucide-react";
 import TornPaperEdge from "@/components/TornPaperEdge";
 import PaperCutBox from "@/components/PaperCutBox";
+import TornPaperCard from "@/components/TornPaperCard";
 
 interface ChargeZoneHomeProps {
   onOpenFranchiseModal: () => void;
@@ -86,11 +87,11 @@ export default function ChargeZoneHome({ onOpenFranchiseModal }: ChargeZoneHomeP
     return () => observer.disconnect();
   }, []);
 
-  // Reusable Hero Media Collage (Exact Oklahoma State Reference Layout from media_1795465986497_32545f84.jpg & media_1795466006927_85dc8107.jpg)
+  // Reusable Hero Media Collage with Authentic Paper Cut Border & Deckle Edge
   const heroMediaCollage = (
     <div className="relative flex flex-col items-center w-full pt-8 sm:pt-12 lg:pt-16">
-      {/* Primary Cutout Media Card (2:3 Portrait Sharp Rectangular Cut matching OSU Reference) */}
-      <div className="relative w-full max-w-[330px] sm:max-w-[360px] md:max-w-[390px] lg:max-w-[420px] xl:max-w-[450px] shadow-[0_25px_50px_-12px_rgba(0,0,0,0.45)] bg-neutral-900 group">
+      {/* Primary Cutout Media Card with Hand-Torn Deckle Matte */}
+      <div className="relative w-full max-w-[330px] sm:max-w-[360px] md:max-w-[390px] lg:max-w-[420px] xl:max-w-[450px] group">
         {/* Retro 8-Point Geometric Starburst Emblem Centered at Top-Right Corner */}
         <div className="absolute top-0 right-0 -translate-y-1/2 translate-x-1/2 w-24 h-24 sm:w-28 sm:h-28 lg:w-32 lg:h-32 text-amber-400 drop-shadow-xl z-30 pointer-events-none">
           <svg viewBox="0 0 100 100" fill="currentColor" className="w-full h-full drop-shadow-md">
@@ -98,8 +99,8 @@ export default function ChargeZoneHome({ onOpenFranchiseModal }: ChargeZoneHomeP
           </svg>
         </div>
 
-        {/* Clean Photographic Print (Sharp 90° Corners, 316/468 Aspect Ratio) */}
-        <div className="relative aspect-[316/468] w-full overflow-hidden">
+        {/* Hand-Torn Paper Cut Photographic Print Card with Authentic Deckle Matte */}
+        <TornPaperCard className="w-full aspect-[316/468]">
           <Image
             src="/images/hero-station-charger-mobile-v4.jpg"
             alt="EVION Highway Superhub Fast Charging with MG ZS EV in Kerala"
@@ -109,7 +110,7 @@ export default function ChargeZoneHome({ onOpenFranchiseModal }: ChargeZoneHomeP
             priority
           />
           <div className="absolute inset-0 bg-gradient-to-t from-black/25 via-transparent to-transparent pointer-events-none" />
-        </div>
+        </TornPaperCard>
       </div>
     </div>
   );
@@ -130,6 +131,7 @@ export default function ChargeZoneHome({ onOpenFranchiseModal }: ChargeZoneHomeP
                 width={150}
                 height={26}
                 className="h-6 sm:h-7 w-auto object-contain transition-transform duration-200 group-hover:scale-[1.02]"
+                style={{ width: "auto" }}
                 priority
               />
             </div>
@@ -539,15 +541,12 @@ export default function ChargeZoneHome({ onOpenFranchiseModal }: ChargeZoneHomeP
             <div className="w-14 sm:w-16 h-1 sm:h-1.5 bg-white mx-auto mt-4 sm:mt-5 shadow-sm" />
           </div>
 
-          {/* 4 Video Cards (Exact Reference Vertical Rhythm: 1st/3rd UPPER, 2nd/4th LOWER) */}
+          {/* 4 Video Cards with Authentic Hand-Torn Papercut Borders & Vertical Rhythm */}
           <div className="grid grid-cols-1 sm:grid-cols-2 lg:grid-cols-4 gap-6 sm:gap-8 items-start">
-            {/* Card 1 (Upper - Same as Card 3) */}
+            {/* Card 1 (Upper - Variant 1 Papercut) */}
             <div className="flex flex-col group cursor-pointer sm:translate-y-0 lg:translate-y-0 transition-transform duration-300 fade-up fade-delay-1" onClick={onOpenFranchiseModal}>
-              {/* Top Accent Strip */}
-              <div className="w-full h-1.5 bg-white" />
-              
-              {/* Video Photo Frame */}
-              <div className="relative aspect-[4/5] w-full bg-neutral-900 overflow-hidden shadow-lg">
+              {/* Hand-Torn Paper Cut Photo Frame */}
+              <TornPaperCard className="w-full aspect-[4/5]" variant={1} borderPadding="p-2 sm:p-2.5">
                 <Image
                   src="/images/evion-family-fast-charging-3.jpg"
                   alt="EV Driver Interview"
@@ -556,7 +555,7 @@ export default function ChargeZoneHome({ onOpenFranchiseModal }: ChargeZoneHomeP
                   className="object-cover group-hover:scale-105 transition-transform duration-500"
                 />
                 <div className="absolute inset-0 bg-black/15 group-hover:bg-black/5 transition-colors" />
-              </div>
+              </TornPaperCard>
 
               {/* Text Sits Directly on Section Background (No white card box, no border) */}
               <div className="mt-4">
@@ -569,10 +568,10 @@ export default function ChargeZoneHome({ onOpenFranchiseModal }: ChargeZoneHomeP
               </div>
             </div>
 
-            {/* Card 2 (Lower - Same as Card 4) */}
+            {/* Card 2 (Lower - Variant 2 Papercut) */}
             <div className="flex flex-col group cursor-pointer sm:translate-y-8 lg:translate-y-16 transition-transform duration-300 fade-up fade-delay-2" onClick={onOpenFranchiseModal}>
-              <div className="w-full h-1.5 bg-white" />
-              <div className="relative aspect-[4/5] w-full bg-neutral-900 overflow-hidden shadow-lg">
+              {/* Hand-Torn Paper Cut Photo Frame */}
+              <TornPaperCard className="w-full aspect-[4/5]" variant={2} borderPadding="p-2 sm:p-2.5">
                 <Image
                   src="/images/evion-family-plug-and-charge.jpg"
                   alt="Hotel and Resort EV Charger Host"
@@ -581,7 +580,7 @@ export default function ChargeZoneHome({ onOpenFranchiseModal }: ChargeZoneHomeP
                   className="object-cover group-hover:scale-105 transition-transform duration-500"
                 />
                 <div className="absolute inset-0 bg-black/15 group-hover:bg-black/5 transition-colors" />
-              </div>
+              </TornPaperCard>
 
               <div className="mt-4">
                 <h4 className="font-display font-black text-lg sm:text-xl text-neutral-700 leading-snug tracking-tight group-hover:text-neutral-900 transition-colors">
@@ -593,10 +592,10 @@ export default function ChargeZoneHome({ onOpenFranchiseModal }: ChargeZoneHomeP
               </div>
             </div>
 
-            {/* Card 3 (Upper - Exact Same Position as Card 1) */}
+            {/* Card 3 (Upper - Variant 3 Papercut) */}
             <div className="flex flex-col group cursor-pointer sm:translate-y-0 lg:translate-y-0 transition-transform duration-300 fade-up fade-delay-3" onClick={onOpenFranchiseModal}>
-              <div className="w-full h-1.5 bg-white" />
-              <div className="relative aspect-[4/5] w-full bg-neutral-900 overflow-hidden shadow-lg">
+              {/* Hand-Torn Paper Cut Photo Frame */}
+              <TornPaperCard className="w-full aspect-[4/5]" variant={3} borderPadding="p-2 sm:p-2.5">
                 <Image
                   src="/images/evion-station-young-travelers-hero-wide.jpg"
                   alt="Young Travelers Fast Charging"
@@ -605,7 +604,7 @@ export default function ChargeZoneHome({ onOpenFranchiseModal }: ChargeZoneHomeP
                   className="object-cover group-hover:scale-105 transition-transform duration-500"
                 />
                 <div className="absolute inset-0 bg-black/15 group-hover:bg-black/5 transition-colors" />
-              </div>
+              </TornPaperCard>
 
               <div className="mt-4">
                 <h4 className="font-display font-black text-lg sm:text-xl text-neutral-700 leading-snug tracking-tight group-hover:text-neutral-900 transition-colors">
@@ -617,10 +616,10 @@ export default function ChargeZoneHome({ onOpenFranchiseModal }: ChargeZoneHomeP
               </div>
             </div>
 
-            {/* Card 4 (Lower - Exact Same Position as Card 2) */}
+            {/* Card 4 (Lower - Variant 4 Papercut) */}
             <div className="flex flex-col group cursor-pointer sm:translate-y-8 lg:translate-y-16 transition-transform duration-300 fade-up fade-delay-4" onClick={onOpenFranchiseModal}>
-              <div className="w-full h-1.5 bg-white" />
-              <div className="relative aspect-[4/5] w-full bg-neutral-900 overflow-hidden shadow-lg">
+              {/* Hand-Torn Paper Cut Photo Frame */}
+              <TornPaperCard className="w-full aspect-[4/5]" variant={4} borderPadding="p-2 sm:p-2.5">
                 <Image
                   src="/images/evion-station-evening-travelers-hero-wide.jpg"
                   alt="Weekly automated franchise payouts"
@@ -629,7 +628,7 @@ export default function ChargeZoneHome({ onOpenFranchiseModal }: ChargeZoneHomeP
                   className="object-cover group-hover:scale-105 transition-transform duration-500"
                 />
                 <div className="absolute inset-0 bg-black/15 group-hover:bg-black/5 transition-colors" />
-              </div>
+              </TornPaperCard>
 
               <div className="mt-4">
                 <h4 className="font-display font-black text-lg sm:text-xl text-neutral-700 leading-snug tracking-tight group-hover:text-neutral-900 transition-colors">
@@ -651,7 +650,7 @@ export default function ChargeZoneHome({ onOpenFranchiseModal }: ChargeZoneHomeP
         {/* Full-Bleed Artwork Banner Image in Website Color Scheme */}
         <div className="relative w-full min-h-[500px] sm:min-h-[560px] md:min-h-[620px] lg:min-h-[700px] flex items-center">
           <Image
-            src="/images/the-states-network-banner-green.jpg"
+            src="/images/the-states-network-banner-blue.jpg"
             alt="The State's Network - Become a Franchisee"
             fill
             priority
@@ -667,7 +666,7 @@ export default function ChargeZoneHome({ onOpenFranchiseModal }: ChargeZoneHomeP
           {/* Directional Softening on Small Screens (ensures text readability over artwork on mobile) */}
           <div className="absolute inset-0 bg-gradient-to-r from-[#00b4d8] via-[#00b4d8]/85 to-transparent md:hidden pointer-events-none" />
 
-          {/* Content Container Aligned to the Left & Founder Portrait on the Right (Green Area) */}
+          {/* Content Container Aligned to the Left & Founder Portrait on the Right (Light Blue Area) */}
           <div className="max-w-[1400px] w-full mx-auto px-6 sm:px-10 lg:px-16 pt-20 sm:pt-24 md:pt-28 pb-20 sm:pb-24 md:pb-28 relative z-10">
             <div className="flex flex-col lg:flex-row items-center justify-between gap-10 lg:gap-16">
               {/* Left Column: Heading & Button */}
@@ -676,10 +675,12 @@ export default function ChargeZoneHome({ onOpenFranchiseModal }: ChargeZoneHomeP
                   <span className="text-xs sm:text-sm font-mono font-black tracking-widest text-neutral-700 uppercase block mb-3">
                     THE STATE&apos;S NETWORK • KERALA ARTERIAL CORRIDORS
                   </span>
-                  <h2 className="font-display font-black text-6xl sm:text-7xl md:text-8xl lg:text-9xl uppercase tracking-tighter leading-[0.88] text-neutral-700">
-                    OUR
+                  <h2 className="font-display font-black text-5xl sm:text-6xl md:text-7xl lg:text-8xl uppercase tracking-tighter leading-[0.9] text-neutral-700">
+                    THE MINDS
                     <br />
-                    FOUNDER
+                    WHO KEEP US
+                    <br />
+                    CHARGED
                   </h2>
                   <p className="mt-4 sm:mt-6 text-sm sm:text-base md:text-lg text-neutral-800 font-medium leading-relaxed max-w-lg">
                     Pioneering Kerala&apos;s electric mobility revolution. Driven by a bold mission to build an uninterrupted high-speed charging spine connecting every highway, district, and community from Kasaragod to Kanyakumari.
@@ -691,16 +692,16 @@ export default function ChargeZoneHome({ onOpenFranchiseModal }: ChargeZoneHomeP
                     onClick={onOpenFranchiseModal}
                     className="inline-flex items-center gap-3 px-8 sm:px-10 py-3.5 sm:py-4 bg-white hover:bg-neutral-100 text-neutral-700 font-display font-black text-sm sm:text-base uppercase tracking-wider transition-all shadow-xl hover:shadow-2xl cursor-pointer"
                   >
-                    <span>OUR FOUNDER</span>
+                    <span>MEET OUR FOUNDER</span>
                     <ArrowRight className="w-5 h-5 text-neutral-700" />
                   </button>
                 </div>
               </div>
 
-              {/* Right Column: Founder Portrait in the Green Area */}
-              <div className="relative w-full max-w-[280px] sm:max-w-[320px] md:max-w-[360px] lg:max-w-[380px] xl:max-w-[420px] shrink-0 fade-up-slow fade-delay-2">
-                {/* Collegiate Editorial Frame with Crisp White Border & Deep Shadow */}
-                <div className="relative aspect-[3/4] w-full shadow-[0_20px_50px_rgba(0,0,0,0.35)] overflow-hidden border-4 sm:border-[6px] border-white group">
+              {/* Right Column: Founder Portrait in the Light Blue Area */}
+              <div className="relative w-full max-w-[280px] sm:max-w-[320px] md:max-w-[360px] lg:max-w-[380px] xl:max-w-[420px] shrink-0 fade-up-slow fade-delay-2 group">
+                {/* Collegiate Editorial Hand-Torn Paper Cut Frame with Deckle Edge & Shadow */}
+                <TornPaperCard className="w-full aspect-[3/4]">
                   <Image
                     src="/images/evion-founder-portrait.jpg"
                     alt="EVION Founder & Leadership"
@@ -710,7 +711,7 @@ export default function ChargeZoneHome({ onOpenFranchiseModal }: ChargeZoneHomeP
                     priority
                   />
                   <div className="absolute inset-0 bg-gradient-to-t from-black/30 via-transparent to-transparent pointer-events-none" />
-                </div>
+                </TornPaperCard>
               </div>
             </div>
           </div>
@@ -835,6 +836,7 @@ export default function ChargeZoneHome({ onOpenFranchiseModal }: ChargeZoneHomeP
                   width={140}
                   height={24}
                   className="h-6 w-auto object-contain"
+                  style={{ width: "auto" }}
                 />
               </div>
               <p className="text-xs sm:text-sm text-neutral-600 leading-relaxed max-w-sm">
